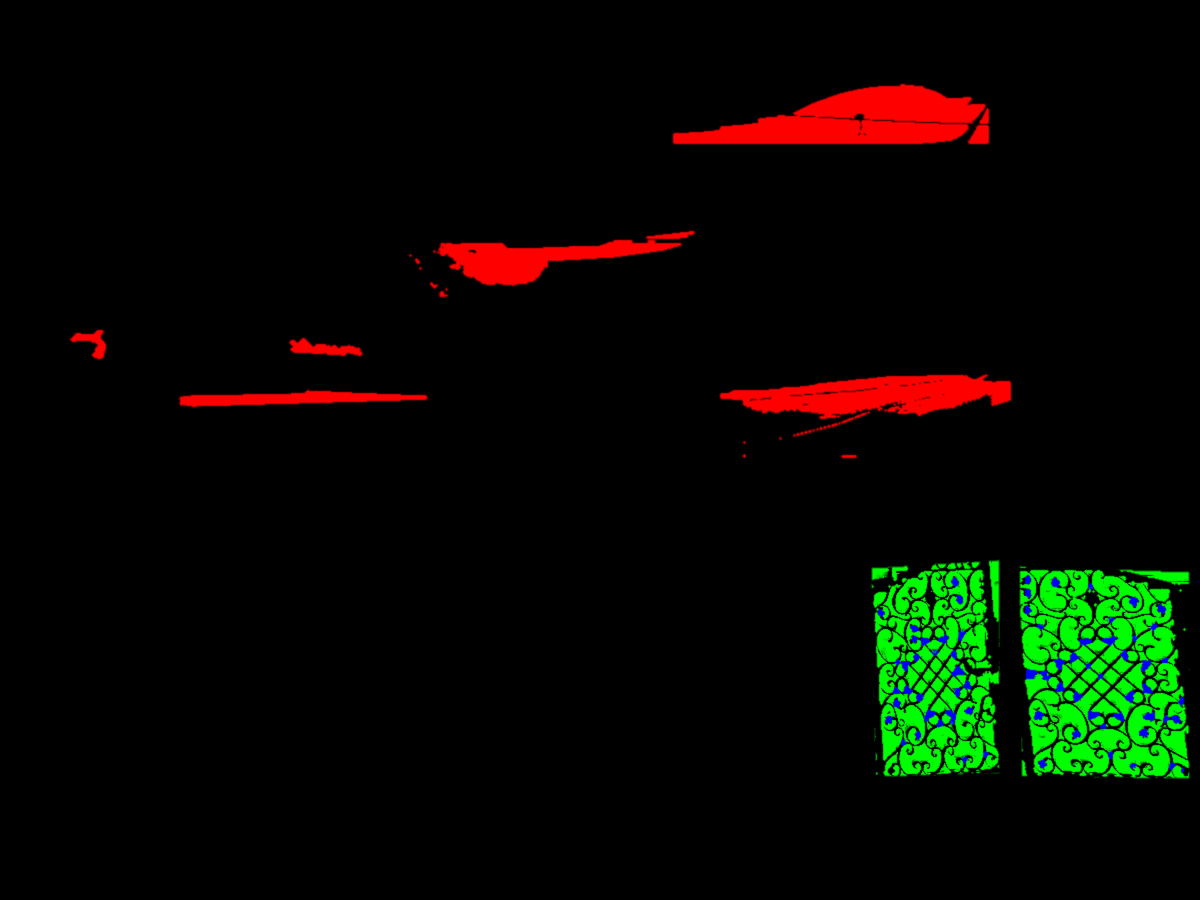
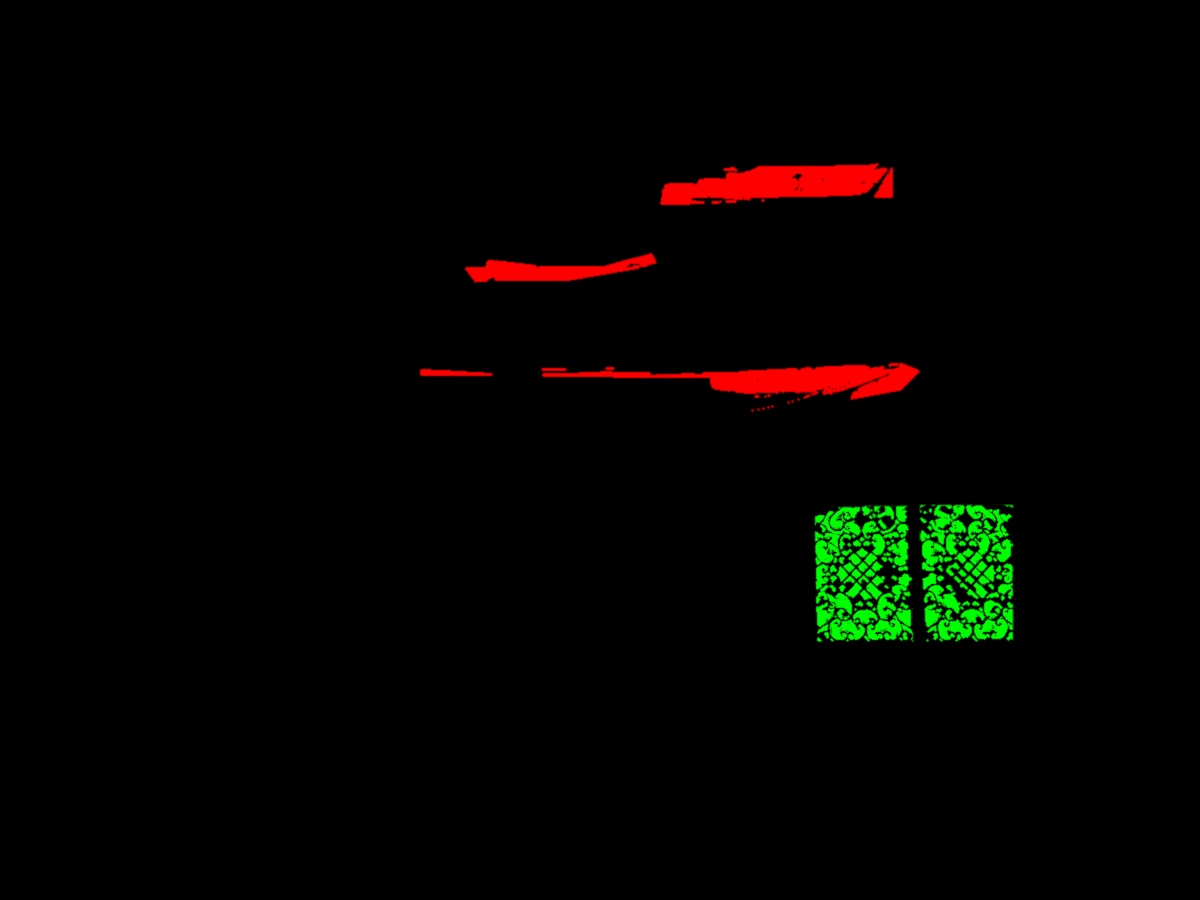
Sunny front and clean Grok gate close-up
Claude-Session: https://claude.ai/code/session_01QxgMQVmJUEFPX2ERhwy2pN

diff --git a/index.html b/index.html
@@ -236,7 +236,7 @@ for (const k of ["body", "trim"]) { const m = SHADES.find(x => `${x[0]} ${x[1]}`
 const PHOTOS = {
   front: { photo: "img/front.jpg", map: "img/front-map.png", ceil: "img/front-extra.png", real: "img/front-today.jpg", label: "Front of the house" },
   court: { photo: "img/court.jpg", map: "img/court-map.png", ceil: "img/court-extra.png", real: "img/court-today.jpg", label: "Courtyard" },
-  gate: { photo: "img/gate.jpg", map: "img/gate-map.png", ceil: "img/gate-extra.png", label: "Main gate" },
+  gate: { photo: "img/gate.jpg", map: "img/gate-map.png", ceil: "img/gate-extra.png", real: "img/gate-today.jpg", label: "Main gate" },
 };
 const cv = document.getElementById("cv"), ctx = cv.getContext("2d", { willReadFrequently: true });
 const W = 1200, H = 900;
